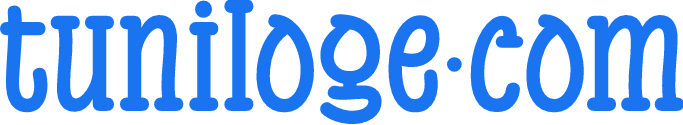
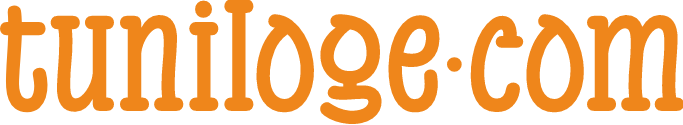
styling slider

diff --git a/app/globals.css b/app/globals.css
@@ -3,55 +3,54 @@
 @tailwind utilities;
  
 
-
 @layer base {
   :root {
     --background: 0 0% 100%;
-    --foreground: 222.2 84% 4.9%;
+    --foreground: 20 14.3% 4.1%;
     --card: 0 0% 100%;
-    --card-foreground: 222.2 84% 4.9%;
+    --card-foreground: 20 14.3% 4.1%;
     --popover: 0 0% 100%;
-    --popover-foreground: 222.2 84% 4.9%;
-    --primary: 221.2 83.2% 53.3%;
-    --primary-foreground: 210 40% 98%;
-    --secondary: 210 40% 96.1%;
-    --secondary-foreground: 222.2 47.4% 11.2%;
-    --muted: 210 40% 96.1%;
-    --muted-foreground: 215.4 16.3% 46.9%;
-    --accent: 210 40% 96.1%;
-    --accent-foreground: 222.2 47.4% 11.2%;
+    --popover-foreground: 20 14.3% 4.1%;
+    --primary: 24.6 95% 53.1%;
+    --primary-foreground: 60 9.1% 97.8%;
+    --secondary: 60 4.8% 95.9%;
+    --secondary-foreground: 24 9.8% 10%;
+    --muted: 60 4.8% 95.9%;
+    --muted-foreground: 25 5.3% 44.7%;
+    --accent: 60 4.8% 95.9%;
+    --accent-foreground: 24 9.8% 10%;
     --destructive: 0 84.2% 60.2%;
-    --destructive-foreground: 210 40% 98%;
-    --border: 214.3 31.8% 91.4%;
-    --input: 214.3 31.8% 91.4%;
-    --ring: 221.2 83.2% 53.3%;
+    --destructive-foreground: 60 9.1% 97.8%;
+    --border: 20 5.9% 90%;
+    --input: 20 5.9% 90%;
+    --ring: 24.6 95% 53.1%;
     --radius: 0.5rem;
   }
 
   .dark {
-    --background: 222.2 84% 4.9%;
-    --foreground: 210 40% 98%;
-    --card: 222.2 84% 4.9%;
-    --card-foreground: 210 40% 98%;
-    --popover: 222.2 84% 4.9%;
-    --popover-foreground: 210 40% 98%;
-    --primary: 217.2 91.2% 59.8%;
-    --primary-foreground: 222.2 47.4% 11.2%;
-    --secondary: 217.2 32.6% 17.5%;
-    --secondary-foreground: 210 40% 98%;
-    --muted: 217.2 32.6% 17.5%;
-    --muted-foreground: 215 20.2% 65.1%;
-    --accent: 217.2 32.6% 17.5%;
-    --accent-foreground: 210 40% 98%;
-    --destructive: 0 62.8% 30.6%;
-    --destructive-foreground: 210 40% 98%;
-    --border: 217.2 32.6% 17.5%;
-    --input: 217.2 32.6% 17.5%;
-    --ring: 224.3 76.3% 48%;
+    --background: 20 14.3% 4.1%;
+    --foreground: 60 9.1% 97.8%;
+    --card: 20 14.3% 4.1%;
+    --card-foreground: 60 9.1% 97.8%;
+    --popover: 20 14.3% 4.1%;
+    --popover-foreground: 60 9.1% 97.8%;
+    --primary: 20.5 90.2% 48.2%;
+    --primary-foreground: 60 9.1% 97.8%;
+    --secondary: 12 6.5% 15.1%;
+    --secondary-foreground: 60 9.1% 97.8%;
+    --muted: 12 6.5% 15.1%;
+    --muted-foreground: 24 5.4% 63.9%;
+    --accent: 12 6.5% 15.1%;
+    --accent-foreground: 60 9.1% 97.8%;
+    --destructive: 0 72.2% 50.6%;
+    --destructive-foreground: 60 9.1% 97.8%;
+    --border: 12 6.5% 15.1%;
+    --input: 12 6.5% 15.1%;
+    --ring: 20.5 90.2% 48.2%;
   }
 }
 
- 
+
 @layer base {
   * {
     @apply border-border;
